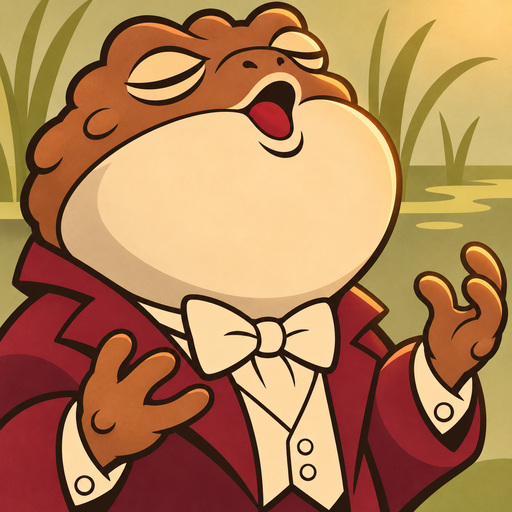
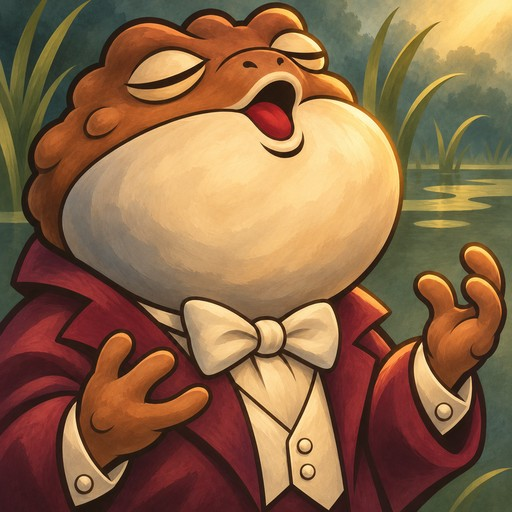
Repaint notch batch 0 mid-tier woodland units

diff --git a/docs/ideation/ui/loop1/art-notch-0.md b/docs/ideation/ui/loop1/art-notch-0.md
@@ -2,7 +2,7 @@
 
 Baseline: `e6af222d`. Scope is the 57 batch-0 jobs plus Fairies fallback: 58 identities, including two unchanged approved trials (Dame Hoolet and Grey Agnes). The other ten trials belong to the other slices.
 
-9/56 new repaints accepted; two approved trials reused. Complete production `header-notch.txt` is unchanged in every `notch-<id>.txt`; old flat-background colour clauses were removed and one form/light direction added. Reference order: current identity, both frozen inkglow anchors, assigned notch pilot. PNG masters and original JPEGs are under `build/notch/`. Exports are 512×512 RGB JPEG, quality 90; import files remain untouched.
+18/56 new repaints accepted; two approved trials reused. Complete production `header-notch.txt` is unchanged in every `notch-<id>.txt`; old flat-background colour clauses were removed and one form/light direction added. Reference order: current identity, both frozen inkglow anchors, assigned notch pilot. PNG masters and original JPEGs are under `build/notch/`. Exports are 512×512 RGB JPEG, quality 90; import files remain untouched.
 
 Every accepted image received a paired 150px identity/form/outer-ink check; the two repainted heroes also passed 70px circular checks. 4 identities needed a retry. Retry notes: cricket_busker: First candidate replaced the mushroom seat with a wooden stump; per-item note corrected.; alderman_dozey: Missing table acorn in first candidate.; changeling: Sword became a spoon in first candidate.; figgy_duff: First candidate replaced the faint full pudding echo outline with a steam curl.. Current images retained after failed retry: none.
 
